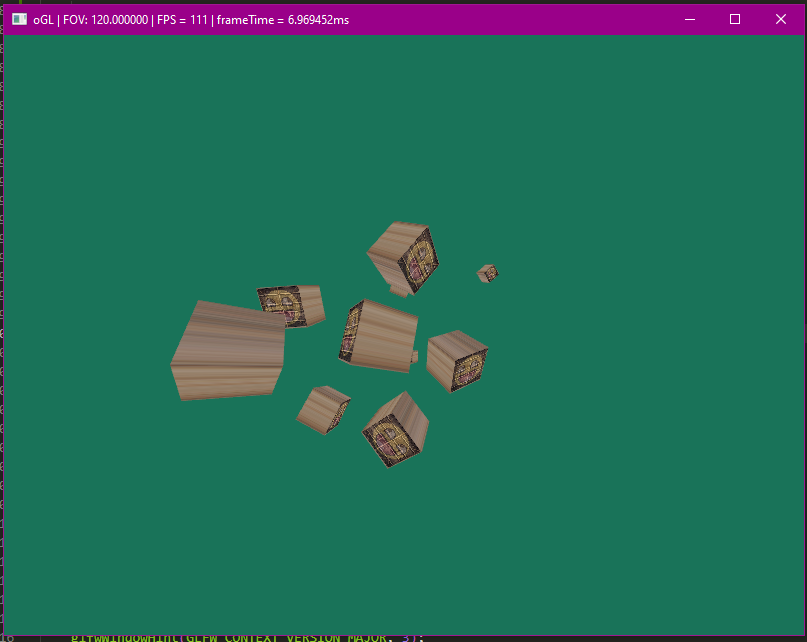
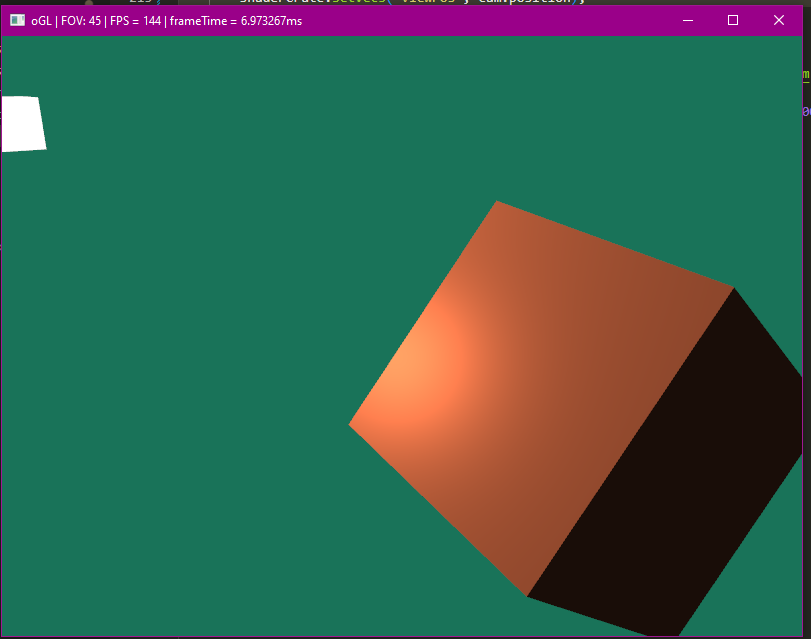
Phong shading

diff --git a/src/main.cpp b/src/main.cpp
@@ -14,49 +14,50 @@
 #include <string>
 
 float vertices[] = {
-    // posistions,            coords
+    // positions            // normals          // texture coords
+    -0.5f, -0.5f, -0.5f,    0.0f, 0.0f, -1.0f,  0.0f, 0.0f,
+    0.5f, -0.5f, -0.5f,     0.0f, 0.0f, -1.0f,  1.0f, 0.0f,
+    0.5f, 0.5f, -0.5f,      0.0f, 0.0f, -1.0f,  1.0f, 1.0f,
+    0.5f, 0.5f, -0.5f,      0.0f, 0.0f, -1.0f,  1.0f, 1.0f,
+    -0.5f, 0.5f, -0.5f,     0.0f, 0.0f, -1.0f,  0.0f, 1.0f,
+    -0.5f, -0.5f, -0.5f,    0.0f, 0.0f, -1.0f,  0.0f, 0.0f,
 
-    // front face
-    -0.5f, -0.5f,  0.5f,    0.0f, 0.0f, //bottom left
-    -0.5f,  0.5f,  0.5f,    0.0f, 1.0f, // top left
-     0.5f, -0.5f,  0.5f,    1.0f, 0.0f, // bottom right
-     0.5f,  0.5f,  0.5f,    1.0f, 1.0f,  // top right
+    -0.5f, -0.5f, 0.5f,     0.0f, 0.0f, 1.0f,   0.0f, 0.0f,
+    0.5f, -0.5f, 0.5f,      0.0f, 0.0f, 1.0f,   1.0f, 0.0f,
+    0.5f, 0.5f, 0.5f,       0.0f, 0.0f, 1.0f,   1.0f, 1.0f,
+    0.5f, 0.5f, 0.5f,       0.0f, 0.0f, 1.0f,   1.0f, 1.0f,
+    -0.5f, 0.5f, 0.5f,      0.0f, 0.0f, 1.0f,   0.0f, 1.0f,
+    -0.5f, -0.5f, 0.5f,     0.0f, 0.0f, 1.0f,   0.0f, 0.0f,
 
-    // back face
-    -0.5f, -0.5f, -0.5f,    0.0f, 0.0f, //bottom left
-    -0.5f,  0.5f, -0.5f,    0.0f, 1.0f, // top left
-     0.5f, -0.5f, -0.5f,    1.0f, 0.0f, // bottom right
-     0.5f,  0.5f, -0.5f,    1.0f, 1.0f  // top right
+    -0.5f, 0.5f, 0.5f,      -1.0f, 0.0f, 0.0f,  1.0f, 0.0f,
+    -0.5f, 0.5f, -0.5f,     -1.0f, 0.0f, 0.0f,  1.0f, 1.0f,
+    -0.5f, -0.5f, -0.5f,    -1.0f, 0.0f, 0.0f,  0.0f, 1.0f,
+    -0.5f, -0.5f, -0.5f,    -1.0f, 0.0f, 0.0f,  0.0f, 1.0f,
+    -0.5f, -0.5f, 0.5f,     -1.0f, 0.0f, 0.0f,  0.0f, 0.0f,
+    -0.5f, 0.5f, 0.5f,      -1.0f, 0.0f, 0.0f,  1.0f, 0.0f,
 
-};
+    0.5f, 0.5f, 0.5f,       1.0f, 0.0f, 0.0f,   1.0f, 0.0f,
+    0.5f, 0.5f, -0.5f,      1.0f, 0.0f, 0.0f,   1.0f, 1.0f,
+    0.5f, -0.5f, -0.5f,     1.0f, 0.0f, 0.0f,   0.0f, 1.0f,
+    0.5f, -0.5f, -0.5f,     1.0f, 0.0f, 0.0f,   0.0f, 1.0f,
+    0.5f, -0.5f, 0.5f,      1.0f, 0.0f, 0.0f,   0.0f, 0.0f,
+    0.5f, 0.5f, 0.5f,       1.0f, 0.0f, 0.0f,   1.0f, 0.0f,
 
-unsigned int indices[] = {
-    0, 1, 2,    // front 1
-    3, 2, 1,    // front 2
-    4, 5, 0,    // left 1
-    1, 0, 5,    // left 2
-    6, 4, 7,    // back 1
-    5, 7, 4,    // back 2
-    2, 6, 3,    // right 1
-    7, 6, 3,    // right 2
-    1, 5, 3,    // top 1
-    7, 3, 5,    // top 2
-    4, 0, 6,    // bottom 1
-    2, 6, 0    // bottom 2
-};
+    -0.5f, -0.5f, -0.5f,    0.0f, -1.0f, 0.0f,  0.0f, 1.0f,
+    0.5f, -0.5f, -0.5f,     0.0f, -1.0f, 0.0f,  1.0f, 1.0f,
+    0.5f, -0.5f, 0.5f,      0.0f, -1.0f, 0.0f,  1.0f, 0.0f,
+    0.5f, -0.5f, 0.5f,      0.0f, -1.0f, 0.0f,  1.0f, 0.0f,
+    -0.5f, -0.5f, 0.5f,     0.0f, -1.0f, 0.0f,  0.0f, 0.0f,
+    -0.5f, -0.5f, -0.5f,    0.0f, -1.0f, 0.0f,  0.0f, 1.0f,
 
-glm::vec3 cubePositions[] = {
-    glm::vec3(0.0f, 0.0f, 0.0f),
-    glm::vec3(2.0f, 5.0f, -15.0f),
-    glm::vec3(-1.5f, -2.2f, -2.5f),
-    glm::vec3(-3.8f, -2.0f, -12.3f),
-    glm::vec3(2.4f, -0.4f, -3.5f),
-    glm::vec3(-1.7f, 3.0f, -7.5f),
-    glm::vec3(1.3f, -2.0f, -2.5f),
-    glm::vec3(1.5f, 2.0f, -2.5f),
-    glm::vec3(1.5f, 0.2f, -1.5f),
-    glm::vec3(-1.3f, 1.0f, -1.5f)
-};
+    -0.5f, 0.5f, -0.5f,     0.0f, 1.0f, 0.0f,   0.0f, 1.0f,
+    0.5f, 0.5f, -0.5f,      0.0f, 1.0f, 0.0f,   1.0f, 1.0f,
+    0.5f, 0.5f, 0.5f,       0.0f, 1.0f, 0.0f,   1.0f, 0.0f,
+    0.5f, 0.5f, 0.5f,       0.0f, 1.0f, 0.0f,   1.0f, 0.0f,
+    -0.5f, 0.5f, 0.5f,      0.0f, 1.0f, 0.0f,   0.0f, 0.0f,
+    -0.5f, 0.5f, -0.5f,     0.0f, 1.0f, 0.0f,   0.0f, 1.0f};
+
+glm::vec3 lightPos(1.2f, 1.0f, 2.0f);
 
 void framebuffer_size_callback(GLFWwindow *window, int width, int height){
     glViewport(0, 0, width, height);
@@ -64,12 +65,18 @@ void framebuffer_size_callback(GLFWwindow *window, int width, int height){
 
 Camera cam;
 
+// frame timing variables
+float deltaTime = 0.0f;
+float lastFrame = 0.0f;
+float frameSum = 0.0f;
+int fpsCount = 0;
+int fpsHistoric = 0;
+
 void processInput(GLFWwindow *window){
     if (glfwGetKey(window, GLFW_KEY_ESCAPE) == GLFW_PRESS){
         glfwSetWindowShouldClose(window, true);
     }
 
-    float cameraSpeed = 2.5f * deltaTime;
     if (glfwGetKey(window, GLFW_KEY_W) == GLFW_PRESS)
         cam.processKeyboard(FORWARD, deltaTime);
     if (glfwGetKey(window, GLFW_KEY_S) == GLFW_PRESS)
@@ -98,15 +105,6 @@ void mouse_callback(GLFWwindow* window, double xpos, double ypos){
 void scroll_callback(GLFWwindow* window, double xoffset, double yoffset){
     cam.ProcessMouseScroll(yoffset);
 }
-
-
-// frame timing variables
-float deltaTime = 0.0f;
-float lastFrame = 0.0f;
-float frameSum = 0.0f;
-int fpsCount = 0;
-int fpsHistoric = 0;
-
 
 int main(int argc, char **argv){
 
@@ -142,7 +140,9 @@ int main(int argc, char **argv){
     glGetIntegerv(GL_MAX_VERTEX_ATTRIBS, &nrAttributes);
     std::cout << "Max # of vertex attribs: " << nrAttributes << "\n";
 
-    shader shader("./vertex.vs", "./fragment_1.fs");
+    cam.position = cam.position - glm::vec3(0.0f, 0.0f, -6.0f);
+
+    shader shaderCrate("./vertex.vs", "./fragment_phong.fs");
     // buffers and vertex attributes
     unsigned int VAO;
     glGenVertexArrays(1, &VAO);
@@ -152,64 +152,32 @@ int main(int argc, char **argv){
     glGenBuffers(1, &VBO);
     glBindBuffer(GL_ARRAY_BUFFER, VBO);
     glBufferData(GL_ARRAY_BUFFER, sizeof(vertices), vertices, GL_STATIC_DRAW);
-
-    unsigned int EBO;
-    glGenBuffers(1, &EBO);
-    glBindBuffer(GL_ELEMENT_ARRAY_BUFFER, EBO);
-    glBufferData(GL_ELEMENT_ARRAY_BUFFER, sizeof(indices), indices, GL_STATIC_DRAW);
-
-    glVertexAttribPointer(0, 3, GL_FLOAT, GL_FALSE, 5 * sizeof(float), (void *)0);
-    glVertexAttribPointer(1, 2, GL_FLOAT, GL_FALSE, 5 * sizeof(float), (void *)(3 * sizeof(float)));
+    glVertexAttribPointer(0, 3, GL_FLOAT, GL_FALSE, 8 * sizeof(float), (void *)0);
+    glVertexAttribPointer(1, 3, GL_FLOAT, GL_FALSE, 8 * sizeof(float), (void *)(3 * sizeof(float)));
+    glVertexAttribPointer(2, 2, GL_FLOAT, GL_FALSE, 8 * sizeof(float), (void *)(5 * sizeof(float)));
     glEnableVertexAttribArray(0);
     glEnableVertexAttribArray(1);
     glBindBuffer(GL_ARRAY_BUFFER, 0);
     glBindVertexArray(0);
 
-
-    // texture
-    unsigned int texture1;
-    glGenTextures(1, &texture1);
-    glBindTexture(GL_TEXTURE_2D, texture1);
-    // wrapping & filter options
-    glTexParameteri(GL_TEXTURE_2D, GL_TEXTURE_WRAP_S, GL_REPEAT);
-    glTexParameteri(GL_TEXTURE_2D, GL_TEXTURE_WRAP_T, GL_CLAMP_TO_EDGE);
-    glTexParameteri(GL_TEXTURE_2D, GL_TEXTURE_MIN_FILTER, GL_LINEAR);
-    glTexParameteri(GL_TEXTURE_2D, GL_TEXTURE_MAG_FILTER, GL_LINEAR);
-    // load and generate texture
-    int width, height, nrChannels;
-    stbi_set_flip_vertically_on_load(true);
-    unsigned char *data = stbi_load("../res/container.jpg", &width, &height, &nrChannels, 0);
-    if (data){
-        glTexImage2D(GL_TEXTURE_2D, 0, GL_RGB, width, height, 0, GL_RGB, GL_UNSIGNED_BYTE, data);
-        glGenerateMipmap(GL_TEXTURE_2D);
-    } else {
-        std::cerr << "Failed to load texture" << std::endl;
-    }
-    stbi_image_free(data);
-
-    unsigned int texture2;
-    glGenTextures(1, &texture2);
-    glBindTexture(GL_TEXTURE_2D, texture2);
-    // wrapping & filter options
-    glTexParameteri(GL_TEXTURE_2D, GL_TEXTURE_WRAP_S, GL_REPEAT);
-    glTexParameteri(GL_TEXTURE_2D, GL_TEXTURE_WRAP_T, GL_REPEAT);
-    glTexParameteri(GL_TEXTURE_2D, GL_TEXTURE_MIN_FILTER, GL_LINEAR);
-    glTexParameteri(GL_TEXTURE_2D, GL_TEXTURE_MAG_FILTER, GL_LINEAR);
-
-    int width2, height2, nrChannels2;
-    data = stbi_load("../res/awesomeface.png", &width2, &height2, &nrChannels, 0);
-    if (data) {
-        glTexImage2D(GL_TEXTURE_2D, 0, GL_RGB, width2, height2, 0, GL_RGBA, GL_UNSIGNED_BYTE, data);
-        glGenerateMipmap(GL_TEXTURE_2D);
-    } else {
-        std::cerr << "Failed to load tex2" << std::endl;
-    }
-    stbi_image_free(data);
-
-    shader.use();
-    glUniform1i(glGetUniformLocation(shader.ID, "tex1"), 0);
-    shader.setInt("tex2", 1);
-
+    shader lightingShader("./vertex.vs", "./fragment_light.fs");
+    lightingShader.use();
+    // lighting 
+    unsigned int lightVAO;
+    glGenVertexArrays(1, &lightVAO);
+    glBindVertexArray(lightVAO);
+    unsigned int VBO2;
+    glGenBuffers(1, &VBO2);
+    glBindBuffer(GL_ARRAY_BUFFER, VBO2);
+    glBufferData(GL_ARRAY_BUFFER, sizeof(vertices), vertices, GL_STATIC_DRAW);
+    glVertexAttribPointer(0, 3, GL_FLOAT, GL_FALSE, 8 * sizeof(float), (void *)0);
+    glVertexAttribPointer(1, 3, GL_FLOAT, GL_FALSE, 8 * sizeof(float), (void *)(3 * sizeof(float)));
+    glVertexAttribPointer(2, 2, GL_FLOAT, GL_FALSE, 8 * sizeof(float), (void *)(5 * sizeof(float)));
+    glEnableVertexAttribArray(0);
+    glBindBuffer(GL_ARRAY_BUFFER, 0);
+    glBindVertexArray(0);
+    
+    
     // glPolygonMode(GL_FRONT_AND_BACK, GL_LINE);
     while (!glfwWindowShouldClose(window)) {
         float currentFrame = glfwGetTime();
@@ -225,7 +193,7 @@ int main(int argc, char **argv){
         }
         std::string windowTitle = "oGL";
         windowTitle.append(" | FOV: ");
-        windowTitle.append(std::to_string(cam.fov));
+        windowTitle.append(std::to_string((int)cam.fov));
         windowTitle.append(" | FPS = ");
         windowTitle.append(std::to_string(fpsHistoric));
         windowTitle.append(" | frameTime = ");
@@ -237,43 +205,41 @@ int main(int argc, char **argv){
         glClearColor(0.1f, 0.45f, 0.35f, 1.0f);
         glClear(GL_COLOR_BUFFER_BIT | GL_DEPTH_BUFFER_BIT);
 
-        shader.use();
-
-        const float radius = 10.0f;
-        float camX = sin(glfwGetTime()) * radius;
-        float camZ = cos(glfwGetTime()) * radius;
-
+        // object
+        shaderCrate.use();
+        shaderCrate.setVec3("objectColor", 1.0f, 0.5f, 0.31f);
+        shaderCrate.setVec3("lightColor",  1.0f, 1.0f, 1.0f);
+        shaderCrate.setVec3("lightPos", lightPos);
+        shaderCrate.setVec3("viewPos", cam.position);
+        glm::mat4 model = glm::mat4(1.0f);
+        model = glm::translate(model, glm::vec3(0.0f));
+        model = glm::rotate(model, (float)glfwGetTime() * glm::radians(50.0f), glm::vec3(0.5f, 1.0f, 0.0f));
         glm::mat4 view = cam.GetViewMatrix();
-        glm::mat4 projection;
-        projection = glm::perspective(glm::radians(cam.fov), 800.0f / 600.0f, 0.1f, 100.0f);
-
-        unsigned int viewLoc = glGetUniformLocation(shader.ID, "view");
-        glUniformMatrix4fv(viewLoc, 1, GL_FALSE, glm::value_ptr(view));
-        unsigned int projectionLoc = glGetUniformLocation(shader.ID, "projection");
-        glUniformMatrix4fv(projectionLoc, 1, GL_FALSE, glm::value_ptr(projection));
-        
-        
-        glActiveTexture(GL_TEXTURE0);
-        glBindTexture(GL_TEXTURE_2D, texture1);
-        glActiveTexture(GL_TEXTURE1);
-        glBindTexture(GL_TEXTURE_2D, texture2);
+        glm::mat4 projection = glm::perspective(glm::radians(cam.fov), 800.0f / 600.0f, 0.1f, 100.0f);
+        shaderCrate.setMat4("model", model);
+        shaderCrate.setMat4("view", view);
+        shaderCrate.setMat4("projection", projection);
         glBindVertexArray(VAO);
-        // for(int i = 0; i < 10; i++){
-        for(int i = 0; i < sizeof(cubePositions)/sizeof(glm::vec3); i++){
+        glDrawArrays(GL_TRIANGLES, 0, 36);
 
-            glm::mat4 model = glm::mat4(1.0f);
-            model = glm::translate(model, cubePositions[i]);
-            float angle = 20.0f * i + 0.1f;
-            model = glm::rotate(model, angle + (float)glfwGetTime() * glm::radians(50.0f), glm::vec3(0.5f, 1.0f, 0.0f));
-            unsigned int modelLoc = glGetUniformLocation(shader.ID, "model");
-            glUniformMatrix4fv(modelLoc, 1, GL_FALSE, glm::value_ptr(model));
-            glDrawElements(GL_TRIANGLES, 36, GL_UNSIGNED_INT, 0);
-        }
+        // light
+        lightingShader.use();
+        model = glm::mat4(1.0f);
+        model = glm::translate(model, lightPos);
+        model = glm::scale(model, glm::vec3(0.2f));
+        lightingShader.setMat4("view", view);
+        lightingShader.setMat4("projection", projection);
+        lightingShader.setMat4("model", model);
+        glBindVertexArray(lightVAO);
+        glDrawArrays(GL_TRIANGLES, 0, 36);
+
+
         glfwSwapBuffers(window);
         glfwPollEvents();
     }
 
     glDeleteVertexArrays(1, &VAO);
+    glDeleteVertexArrays(1, &lightVAO);
     glDeleteBuffers(1, &VBO);
 
     glfwTerminate();

diff --git a/src/shader.h b/src/shader.h
@@ -2,6 +2,7 @@
 #define SHADER_H_
 
 #include <glad\glad.h>
+#include <glm/glm.hpp>
 
 #include <string>
 #include <fstream>
@@ -90,10 +91,12 @@ public:
         glDeleteShader(vertex);
         glDeleteShader(fragment);
     }
+
     // use/activate shader
     void use(){
         glUseProgram(ID);
     }
+
     // utility uniform functions
     void setBool(const std::string &name, bool value) const{
         glUniform1i(glGetUniformLocation(ID, name.c_str()), (int)value);
@@ -103,6 +106,15 @@ public:
     }
     void setFloat(const std::string &name, float value) const{
         glUniform1f(glGetUniformLocation(ID, name.c_str()), value);
+    }
+    void setVec3(const std::string &name, float x, float y, float z) const{
+        glUniform3f(glGetUniformLocation(ID, name.c_str()), x, y, z);
+    }
+    void setVec3(const std::string &name, glm::vec3 &vec){
+        glUniform3fv(glGetUniformLocation(ID, name.c_str()), 1, &vec[0]);
+    }
+    void setMat4(const std::string &name, const glm::mat4 &mat) const {
+        glUniformMatrix4fv(glGetUniformLocation(ID, name.c_str()), 1, GL_FALSE, &mat[0][0]);
     }
 };
 
